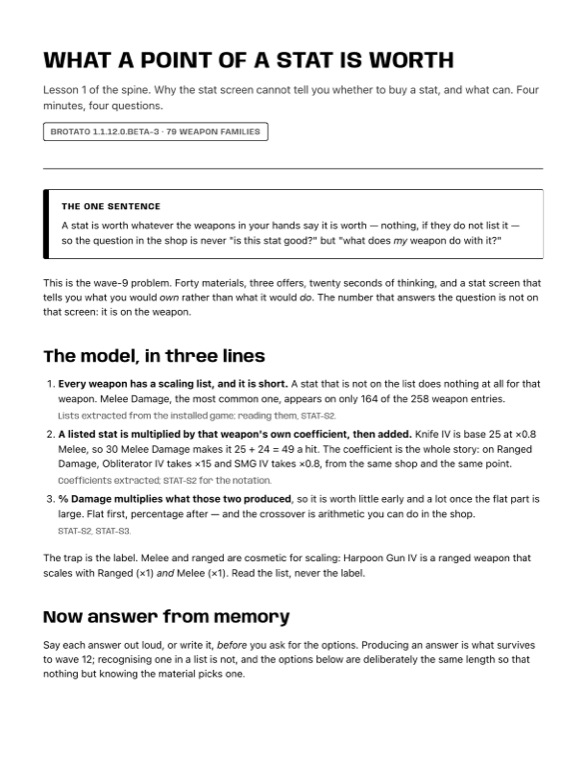
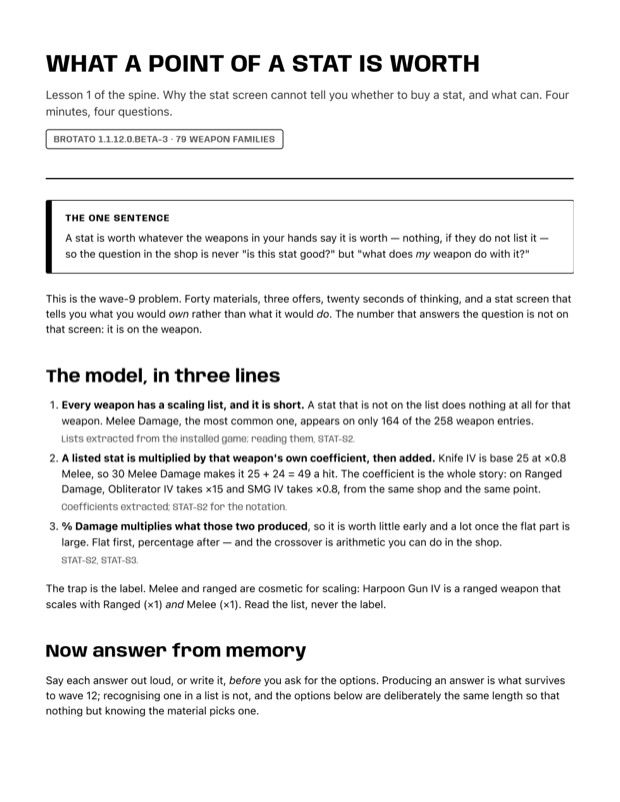
🥔 What the review caught: an outline nobody could see
The spec review found the restyle's own headline claim was false in the theme
it cared most about. `panel_style.tres` outlines every panel in flat black, so
the restyle used black in both themes and called it "the single most legible
piece of the look". It isn't, on a dark page: black on the black panel scores
1.04:1. The outline was in the file and absent from the screen.

Each theme now takes the game's answer for its own situation. Light keeps the
black outline, which is what a black outline is for. Dark takes the other tool
the game divides with — the white separator sprite, at the alpha
character_selection.tscn dims chrome to. `--rule-soft` gets the same treatment
instead of the two invented values it had.

test_lesson_style.py now scores --rule against every surface it is drawn on.
That check is not there for WCAG, which asks nothing of a divider; it is there
because a border matching what it borders still parses, still renders, and
shows nothing — and that shipped once already.

The other half of the review was provenance. ADR-0006 decision 1 claimed every
token names the res:// path it was read from; three did not, and could not,
because a page needs a third dark surface, a soft rule and a shadow that no
game HUD has and Godot's StyleBoxFlat cannot express. Those now say **derived**
and say what from, and the ADR states the honest rule: not that everything came
from the game, but that no token is silent about which it is. Also fixed: the
[…]

diff --git a/assets/lesson.css b/assets/lesson.css
@@ -20,9 +20,14 @@
  * WHERE THE LOOK COMES FROM
  *
  * Every colour and every measurement below is read off the installed game rather than
- * remembered or eyeballed. `extract` opens the `.pck`, so the resources naming them are
- * readable locally; each token says which resource it came from, in `res://` terms, so a
+ * remembered or eyeballed. `gamedata` opens the `.pck` to extract characters and weapons;
+ * the same container holds `res://resources/themes/` and `res://resources/fonts/`, which is
+ * where these were read. Each token names the resource it came from, in `res://` terms, so a
  * later patch can be checked against the same file rather than against this comment.
+ *
+ * A few tokens have no game value to name, because a page needs surfaces and dividers a game
+ * HUD never does. Those say **derived**, and say what they were derived from. A token that
+ * says neither would be the failure this whole comment exists to prevent.
  *
  * Read on Brotato 1.1.12.0.beta-3. Godot stores colour as four floats in 0..1; the hex here
  * is that value rounded to 8 bits, and where the game draws a colour at partial alpha over
@@ -54,6 +59,11 @@
  * Shipped as the Google Fonts latin and latin-ext subsets of the variable face, so one
  * file covers every weight the page asks for, and so a lesson opened from a file:// URL
  * on a train still looks like the game.
+ *
+ * What is deliberately not taken is the black outline every `font_*_outline.tres` puts round
+ * its type. The game needs it because its text sits on a bright arena; here the text sits on
+ * a dark panel, where a black outline is invisible and does nothing but erode the letterform
+ * it was meant to protect. The weight it bought is bought instead by the face, at 600 and 700.
  */
 @font-face {
   font-family: "Anybody";
@@ -101,8 +111,11 @@
      cream from res://ui/menus/pages/menu_options.tscn. */
   --bg-raised: light-dark(#fffde4, #05070a);
 
-  /* An inset field — code, a pre block. Dark is the panel lifted just off black; light is
-     the codex's secondary cream, Color(0.918, 0.886, 0.690). */
+  /* An inset field — code, a pre block. Light is the codex's secondary cream,
+     res://ui/menus/pages/menu_codex/codex_entity_description.tscn, Color(0.918, 0.886, 0.690).
+     Dark is **derived**: the game has no third dark surface, because a HUD has a panel and a
+     backdrop and nothing between them, and a page that sets code apart needs one. It is the
+     panel lifted a little off black, sitting between `--bg-raised` and `--bg`. */
   --bg-sunken: light-dark(#eae2b0, #10141a);
 
   /* Running text. Dark is the cream the codex writes entity descriptions in,
@@ -110,19 +123,30 @@
      res://resources/themes/panel/tooltip_style.tres, Color(0.0588, 0.0588, 0.0588). */
   --ink: light-dark(#0f0f0f, #faf4cc);
 
-  /* The game dims text with alpha rather than with a second colour. These are white at the
-     alphas base_theme.tres and the codex actually use — 0.761 and 0.588 — composited over
-     the page, so the steps are the game's even though the values are opaque. */
+  /* The game dims text with alpha rather than with a second colour, so what is taken here is
+     the alphas rather than the colours: 0.761 and 0.588, both used on white in
+     res://resources/themes/base_theme.tres and res://ui/menus/pages/menu_codex.tscn.
+     Dark applies them the game's way, white over the page. Light has no game value to apply
+     them to — Brotato never dims text on a light surface — so it is **derived**: the same two
+     alphas, black over the paper, warmed towards the cream they sit on. */
   --ink-muted: light-dark(#3a3a2e, #c6cbd1);
   --ink-faint: light-dark(#55554a, #a3a9b2);
 
-  /* Borders and dividers. The game outlines every panel in flat black —
-     `border_color = Color(0, 0, 0, 1)` in panel_style.tres — and that black outline is the
-     single most legible piece of the look, so it is used at full strength in both themes.
+  /* Borders and dividers, and the one place the game's own value cannot be taken twice.
+     `panel_style.tres` outlines every panel in flat black, `border_color = Color(0, 0, 0, 1)`
+     — which works because a Brotato panel is a black slab on a bright arena, so the outline
+     falls on the arena side. Here the panel is black on a dark page, and a black outline on
+     it scores 1.04:1: invisible, in the theme this file calls the game's own.
+     So each theme takes the game's answer for its own situation. Light keeps the black
+     outline, which is what it is for. Dark takes the other tool the game divides with, the
+     white separator sprite `res://resources/themes/separator/separator_white.png`, at the
+     0.42 white alpha `res://ui/menus/run/character_selection.tscn` dims chrome to,
+     composited over the page.
      `--rule-soft` is for the places a page needs a divider every few lines, such as table
-     rows, where the game's outline would fence the reader in. */
-  --rule: light-dark(#000000, #000000);
-  --rule-soft: light-dark(#c9bf82, #39414e);
+     rows, where a full-strength outline would fence the reader in: the same two colours at
+     the 0.2 alpha `base_theme.tres` uses to dim, over the page. */
+  --rule: light-dark(#000000, #7b7e83);
+  --rule-soft: light-dark(#c8c3a3, #494d54);
 
   /* Gold: the border `special_button_theme.tres` puts on the button that matters,
      Color(1, 0.843, 0). Straight from the game on dark. On paper it fails contrast against
@@ -142,8 +166,10 @@
   --good: light-dark(#1f6b2b, #8effa0);
   --bad: light-dark(#a32020, #ff7b7b);
 
-  /* The game draws no soft shadows; it draws a hard black edge. So this is an offset solid,
-     not a blur — the sticker edge a Brotato panel has. */
+  /* **Derived**, in the sense that the game has no shadow to read: nothing in
+     res://resources/themes/ blurs anything, because Godot's StyleBoxFlat has no shadow to
+     set and Brotato never reaches past it. What the game does instead is stack flat black
+     edges, so this is an offset solid rather than a blur — the sticker edge, not a lift. */
   --shadow: 0 3px 0 rgb(0 0 0 / 55%);
 
   --measure: 34rem;
@@ -213,12 +239,6 @@ body > footer {
   max-width: var(--measure);
   margin-inline: auto;
 }
-
-/* The one thing of the game's the page does not take is the black outline every
-   `font_*_outline.tres` puts round its type. The game needs it because its text sits on a
-   bright arena; here the text sits on a dark panel, where a black outline is invisible and
-   does nothing but erode the letterform it is meant to protect. The weight it was there to
-   buy is bought instead by the face itself, at 600 and 700. */
 
 /* ---------------------------------------------------------------- header */
 
@@ -628,8 +648,13 @@ th {
 
 @media print {
   /* Paper is white; ink is black. Screen theme is irrelevant to the printer, and so is the
-     game's: none of the palette above survives here. What does survive is the geometry —
-     a printed page still shows the game's panel shapes, in black on white. */
+     game's: none of the palette above survives here. What does survive is the shape — the
+     corner radii, the panel outlines, the pill of the patch stamp — so a printed lesson is
+     still recognisably the same page, in black on white.
+     The one measurement that changes is the border weight. 3px is chosen against a screen
+     pixel; on paper it is a third of a millimetre of solid toner around every panel on the
+     sheet, which is heavier than the screen ever looks. 1.5px prints at the weight 3px
+     displays at, which is the point of keeping it. */
   :root,
   :root[data-theme="dark"] {
     color-scheme: light;

diff --git a/tests/test_lesson_style.py b/tests/test_lesson_style.py
@@ -44,12 +44,19 @@ TEXT_ON_SURFACE = [
 
 # Right and wrong in a quiz are drawn as borders, never as the only signal, so
 # they are held to the non-text threshold on the surfaces a question uses.
-# `--rule` is not here: a divider is decoration, and WCAG asks nothing of it.
 SIGNAL_ON_SURFACE = [
     (signal, surface)
     for signal in ("--good", "--bad")
     for surface in ("--bg-raised", "--accent-wash")
 ]
+
+# Every surface a panel outline is drawn against: the panel it encloses, and the
+# page it encloses it on. WCAG asks nothing of a divider, so this is not an
+# accessibility threshold — it is the panel treatment itself. The outline is the
+# most recognisable thing the look borrows, and it is the one part of it that can
+# be present in the file and absent on the screen, because a border that matches
+# what it borders still parses, still renders, and shows nothing.
+OUTLINED_SURFACES = ("--bg", "--bg-raised", "--bg-sunken", "--accent-wash")
 
 _PAIR = re.compile(
     r"^\s*(--[a-z-]+):\s*light-dark\(\s*(#[0-9a-fA-F]{6})\s*,\s*(#[0-9a-fA-F]{6})\s*\)",
@@ -64,9 +71,9 @@ def stylesheet() -> str:
 
 def print_block() -> str:
     """Everything inside the stylesheet's `@media print` rule."""
-    start = stylesheet().index("@media print")
-    depth, index = 0, start
     text = stylesheet()
+    start = text.index("@media print")
+    depth, index = 0, start
     while index < len(text):
         if text[index] == "{":
             depth += 1
@@ -78,14 +85,14 @@ def print_block() -> str:
     raise AssertionError("@media print is never closed")
 
 
-def palettes() -> tuple[dict[str, str], dict[str, str]]:
-    """The light and dark palettes, read off the `light-dark()` pairs."""
-    light, dark = {}, {}
+def palettes() -> dict[str, dict[str, str]]:
+    """Both palettes, keyed by theme, read off the `light-dark()` pairs."""
+    themes: dict[str, dict[str, str]] = {"light": {}, "dark": {}}
     for token, on_light, on_dark in _PAIR.findall(stylesheet()):
-        light[token] = on_light
-        dark[token] = on_dark
-    assert light, "no light-dark() palette found in lesson.css"
-    return light, dark
+        themes["light"][token] = on_light
+        themes["dark"][token] = on_dark
+    assert themes["light"], "no light-dark() palette found in lesson.css"
+    return themes
 
 
 def relative_luminance(colour: str) -> float:
@@ -106,7 +113,7 @@ def contrast(foreground: str, background: str) -> float:
     return (lighter + 0.05) / (darker + 0.05)
 
 
-THEMES = dict(zip(("light", "dark"), palettes()))
+THEMES = palettes()
 
 
 @pytest.mark.parametrize("theme", sorted(THEMES))
@@ -138,15 +145,30 @@ def test_a_border_that_carries_meaning_is_visible(
     )
 
 
+@pytest.mark.parametrize("theme", sorted(THEMES))
+@pytest.mark.parametrize("surface", OUTLINED_SURFACES)
+def test_a_panel_outline_is_visible_against_what_it_outlines(
+    theme: str, surface: str
+) -> None:
+    palette = THEMES[theme]
+    ratio = contrast(palette["--rule"], palette[surface])
+
+    assert ratio >= NON_TEXT_CONTRAST, (
+        f"{theme}: --rule {palette['--rule']} on {surface} {palette[surface]} "
+        f"is {ratio:.2f}:1 — an outline nobody can see is not a panel treatment"
+    )
+
+
 def test_printing_is_black_ink_on_white_paper() -> None:
     printed = dict(_PRINT_VALUE.findall(print_block()))
+    paper = "#ffffff"
 
-    assert printed.get("--bg") == "#ffffff", "paper is white"
     assert printed.get("--ink") == "#000000", "ink is black"
-    for token in ("--bg-raised", "--bg-sunken", "--accent-wash"):
-        assert printed.get(token) == "#ffffff", f"{token} is paper too"
+    for token in ("--bg", "--bg-raised", "--bg-sunken", "--accent-wash"):
+        assert printed.get(token) == paper, f"{token} is paper"
     for token in ("--ink-muted", "--ink-faint", "--accent"):
-        assert contrast(printed[token], "#ffffff") >= TEXT_CONTRAST, (
+        assert token in printed, f"printed {token} is never set back to an ink"
+        assert contrast(printed[token], paper) >= TEXT_CONTRAST, (
             f"printed {token} is too pale for paper"
         )
 

diff --git a/docs/adr/0006-the-workspace-look-is-derived-from-the-installed-game.md b/docs/adr/0006-the-workspace-look-is-derived-from-the-installed-game.md
@@ -26,12 +26,20 @@ gitignore keeps out.
 
 ## Decision
 
-1. **Values are read off the installed game, and each one says where from.**
-   Every token in `assets/lesson.css` carries the `res://` path it was read from
-   — the page background is `LineEdit/styles/normal` in `base_theme.tres`, the
-   panel is `panel/panel_style.tres`, the gold is the border
-   `special_button_theme.tres` puts on the button that matters. A later patch is
-   checked against the same resource, not against a memory of this restyle.
+1. **Values are read off the installed game, and each one says where from — or
+   says it was derived, and from what.** A token in `assets/lesson.css` names the
+   `res://` path it was read from: the page background is `LineEdit/styles/normal`
+   in `base_theme.tres`, the panel is `panel/panel_style.tres`, the gold is the
+   border `special_button_theme.tres` puts on the button that matters. A later
+   patch is checked against the same resource, not against a memory of this
+   restyle.
+
+   A few tokens have no game value to name, because a page needs surfaces and
+   dividers a game HUD never does: a third dark surface for code, a soft rule for
+   table rows, a shadow the engine's `StyleBoxFlat` cannot even express. Those say
+   **derived** and say what from. The rule is not "everything came from the game",
+   which would be a lie; it is that no token is silent about which it is, because
+   a value that merely *looks* sourced is worse than one honestly invented.
 
 2. **The derived look may be committed; the game's files may not.** Hex values,
    corner radii, border weights and spacing ratios are facts about how the game
@@ -75,5 +83,19 @@ gitignore keeps out.
   does — `panel_style.tres` is black over a lighter surface. It looks wrong for
   about five seconds if you are expecting a document, and right immediately if
   you are expecting Brotato.
+- Copying a game value is not the same as copying its situation, and the
+  difference is a bug the file can hold while still rendering. The panel outline
+  is flat black in the game because a Brotato panel is a black slab on a *bright
+  arena*; taken literally onto a dark page it becomes black on black, 1.04:1, and
+  vanishes. So `--rule` is the one token whose two themes take different game
+  answers — light the black outline, dark the white separator sprite — and
+  `test_lesson_style.py` scores it against every surface it is drawn on, at the
+  non-text threshold. That check is not there for WCAG, which asks nothing of a
+  divider; it is there because this exact mistake shipped once already.
 - `assets/` now holds binary. It is 46 KB of woff2 with its licence beside it,
   and the suite refuses anything else.
+- `docs/renders/` holds binary too — the before/after evidence a restyle has to
+  produce, since a diff of hex values is unreviewable. It is the reviewer's copy
+  of what changed, not an input to anything, and it is not regenerated
+  automatically: a later restyle adds its own directory rather than editing this
+  one.

diff --git a/docs/renders/issue-18/README.md b/docs/renders/issue-18/README.md
@@ -1,0 +1,30 @@
+# Renders: restyling the lesson stylesheet (#18)
+
+Before and after `assets/lesson.css` was restyled from the installed game
+(ADR-0006). A restyle's diff is a column of hex values, which nobody can review;
+these are what actually changed.
+
+Both sides render the same page, `lessons/001-what-a-point-of-a-stat-is-worth.html`,
+whose markup was not touched — that is the point of the pairing. Before is the
+stylesheet at `master`; after is this branch.
+
+| | Before | After |
+| --- | --- | --- |
+| Light | `before-light.png` | `after-light.png` |
+| Dark | `before-dark.png` | `after-dark.png` |
+| Print, page 1 | `before-print.png` | `after-print.png` |
+| Print, the quiz | `before-print-quiz.png` | `after-print-quiz.png` |
+
+The second print page is here rather than page 1 alone because it is the only one
+that shows the guarantee worth checking by eye: on paper every option and every
+note is revealed, and the control that hid them is gone.
+
+## How they were made
+
+Chrome headless against the `file://` URL, at a 900px viewport, with `data-theme`
+pinned on `<html>` for the two screen renders; `--print-to-pdf` for the print
+pair, rasterised at 1.6× and downscaled to 620px wide.
+
+They are evidence, not an input: nothing reads them, and no test regenerates
+them. A later restyle adds its own directory rather than editing this one, so
+this pair keeps meaning what it meant.
